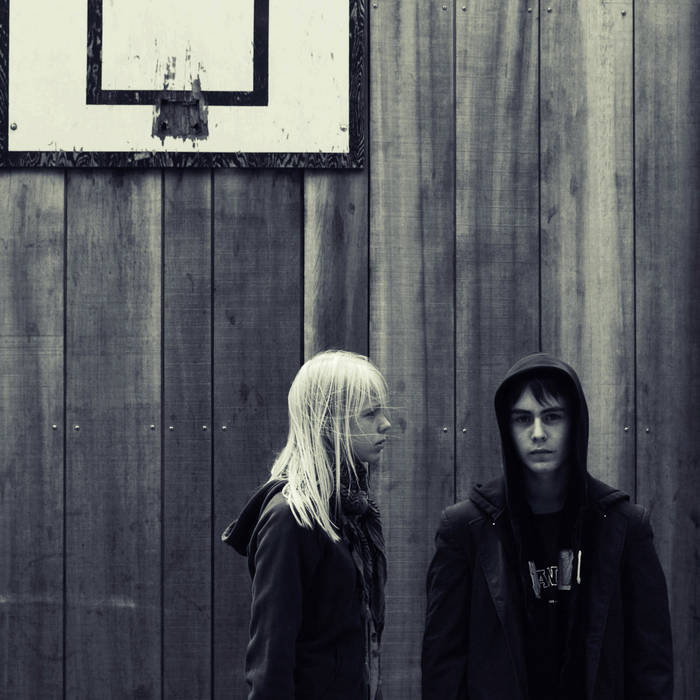
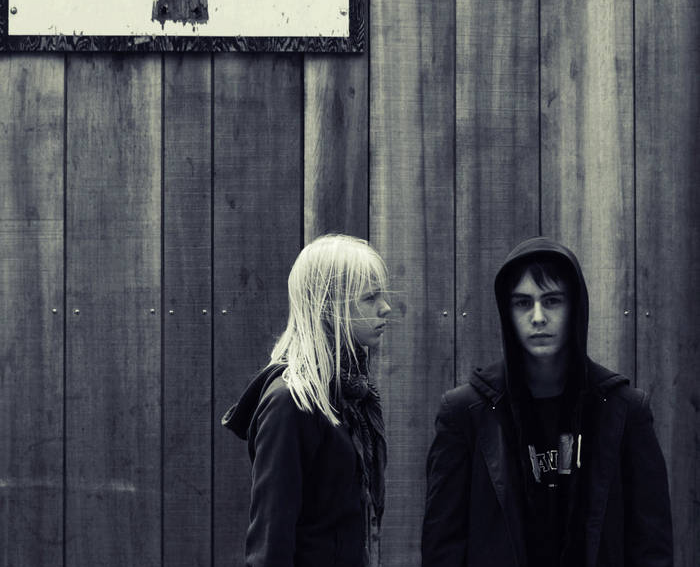
Apply the image crops from the source Google Docs
Google Docs stores a crop as a display rectangle while the underlying
file stays full size, so exporting the doc yields the uncropped
original. Every image had been published uncropped.

Read the exact crop rectangles from the DOCX export (a:srcRect) and bake
them into the files:

  dm-1     top 12.18%  bottom 1.99%
  dm-4     top 13.74%  bottom 5.69%
  dm-5     top 16.89%  bottom 4.93%
  music-1  left 25.84% right 23.40%
  music-2  top 6.20%  right 20.76%  bottom 14.48%
  music-3  top 33.38%
  music-4  top 16.57%  bottom 2.48%
  music-6  top 18.57%

The transcripts and the remaining music photos carry no crop and are
untouched. music-1 is only 177px wide once cropped, so it gets .img-small
to stop the layout upscaling it; the doc shows it at 167px too.

Copilot-Session: 5825ac03-31eb-4e8b-8372-5c529ccd921b

diff --git a/blog/two-majors-one-minor.html b/blog/two-majors-one-minor.html
@@ -43,7 +43,7 @@
 
         <div class="article-body">
           <p>I graduated from IITK with 2 majors in Electrical Engineering and Computer Science and Engineering with a minor in literature in just 4 years. It's the first time someone completed a double major in just 4 years, and many juniors reached out asking how I managed to do it. Here’s a little writeup about how I did it.</p>
-          <img class="img-portrait" src="../assets/images/dm-1.jpeg" alt="Graduation day at IIT Kanpur" loading="lazy" width="768" height="1024" decoding="async">
+          <img class="img-portrait" src="../assets/images/dm-1.jpeg" alt="Graduation day at IIT Kanpur" loading="lazy" width="768" height="879" decoding="async">
           <h2>Preface</h2>
           <p>When I joined IIT Kanpur, I never imagined that I would graduate with two majors and a minor within the standard four-year program. In fact, none of this was part of a grand plan. My only goal was to make the most of the opportunities IITK offered.</p>
           <p>Like many JEE aspirants, I had initially hoped to study Computer Science. After my JEE result, I even considered taking a drop because I couldn't get CSE at any of the older IITs (mostly because I couldn't get a 3 digit rank), and I genuinely believed I could do better. Although my parents and teachers didn’t let me take a drop, and I decided to join Electrical Engineering at IIT Kanpur instead.</p>
@@ -94,9 +94,9 @@
           <h2>Closing Thoughts</h2>
           <p>IITK’s academic flexibility is not a myth. Having friends from other IITs as well, I think no other institution in India can currently match the academic flexibility that  IITK offers. And if there is flexibility , I will say - use it to the maximum. I never intended to break a record or do courses just to get a degree, I was just trying to do courses that I was interested in for most of my time at IITK. I would have done even more courses if I was allowed to cross the 65 credits limit. Other than that I just got lucky a few times and managed my template well. But I think continuously surviving loaded semesters was only possible due to my interest in the courses I was taking and my desire to learn.</p>
           <p>Most importantly, none of this would have been possible without the support of my parents. There were times when I felt crushed under academic pressure, and during those moments, they were my entire support system.</p>
-          <img class="img-portrait" src="../assets/images/dm-4.jpeg" alt="With my parents" loading="lazy" width="768" height="1024" decoding="async">
+          <img class="img-portrait" src="../assets/images/dm-4.jpeg" alt="With my parents" loading="lazy" width="768" height="825" decoding="async">
           <p>Given that I accomplished this despite most of my semesters being unplanned (from the pov of completing the degree)  and the uncertainty surrounding my double major allotment in the seventh semester, I believe that with proper planning, someone who receives their double major allotment in the fourth semester could easily replicate this feat. I hope to see more such instances in the future, provided that the course load does not increase and the institute does not impose new restrictions.</p>
-          <img src="../assets/images/dm-5.jpeg" alt="With friends" loading="lazy" width="1024" height="610" decoding="async">
+          <img src="../assets/images/dm-5.jpeg" alt="With friends" loading="lazy" width="1024" height="477" decoding="async">
           <p class="img-caption">Homies ftw</p>
         </div>
       </article>

diff --git a/blog/finding-my-music.html b/blog/finding-my-music.html
@@ -93,7 +93,7 @@
 
           <p>Gradually, I started convincing myself that music simply wasn't for me. There were people around me who were much better musicians, much more invested and much more talented. I felt disconnected from the club and started drifting away from it. I skipped Acoustic Night so I could focus on CP and acads. I showed up less often. Then one fine day, I got de-ratified.</p>
 
-          <img src="../assets/images/music-1.png" alt="De-ratification days">
+          <img class="img-small" src="../assets/images/music-1.png" alt="De-ratification days">
 
           <p>At that time, it felt terrible. <span class="text-circle red">I was upset</span> of losing a POR after putting in effort for more than half a tenure. And like any second-year student trying to build a resume, I used to believe that a secy POR has an importance on my resume. Although very soon I realized, in tech, no one gives a shit about POR, at least second-year POR.</p>
 

diff --git a/assets/styles.css b/assets/styles.css
@@ -700,6 +700,15 @@ h3 { font-size: 1.1rem; letter-spacing: 0.02em; }
   margin-right: auto;
 }
 
+/* Low-resolution meme/GIF stills: cap the display width so they are not
+   upscaled into mush. */
+.article-body img.img-small {
+  width: auto;
+  max-width: min(100%, 380px);
+  margin-left: auto;
+  margin-right: auto;
+}
+
 /* Scanned documents sit a little inside the text column so they read as
    figures rather than full-bleed images, and stay centred like the portraits. */
 .article-body img.img-doc {
